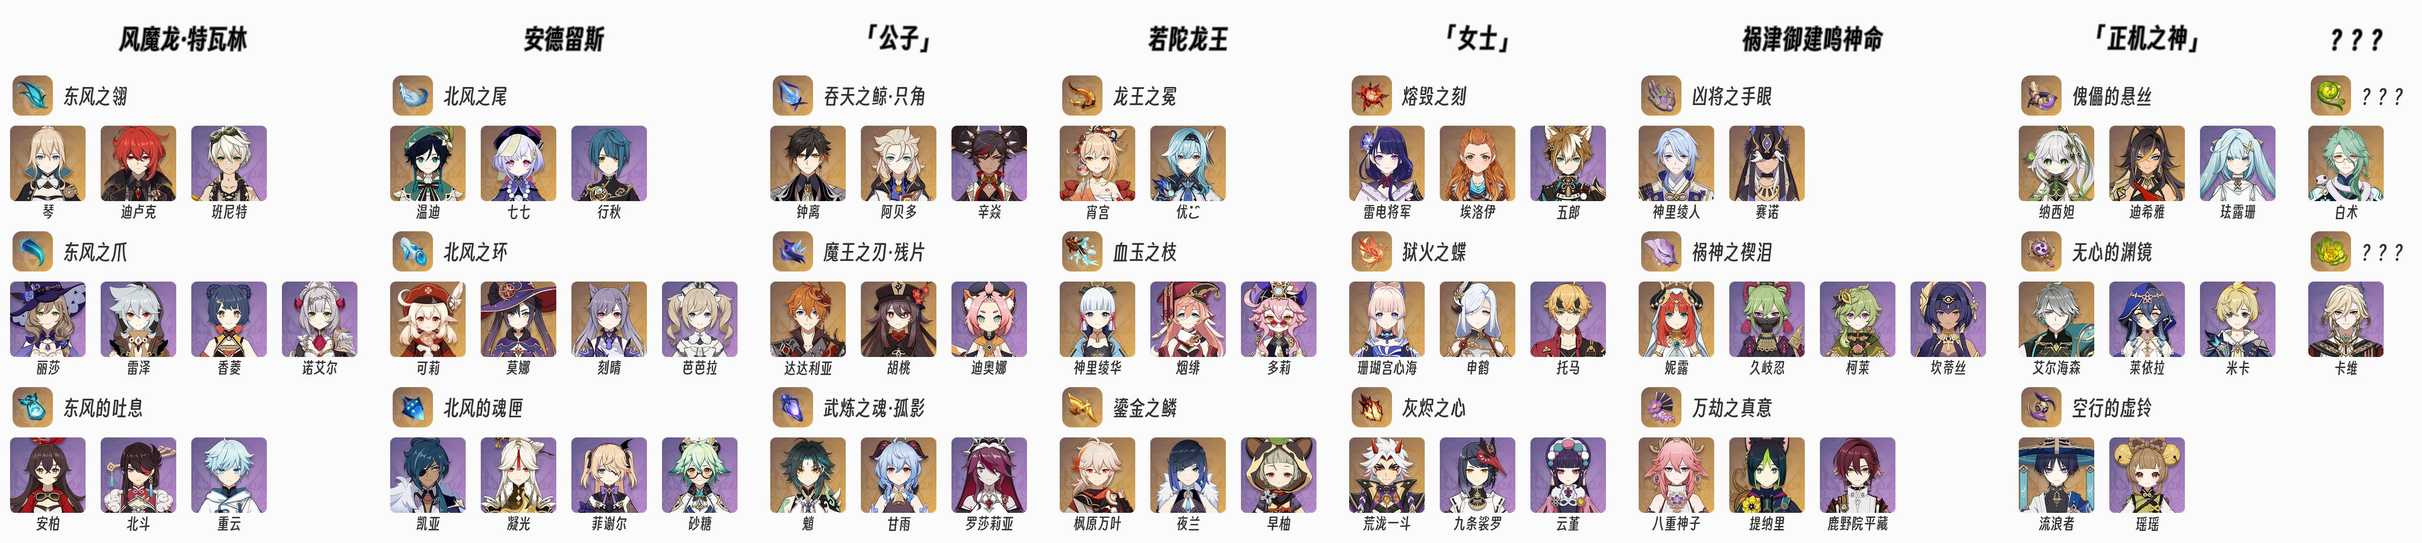
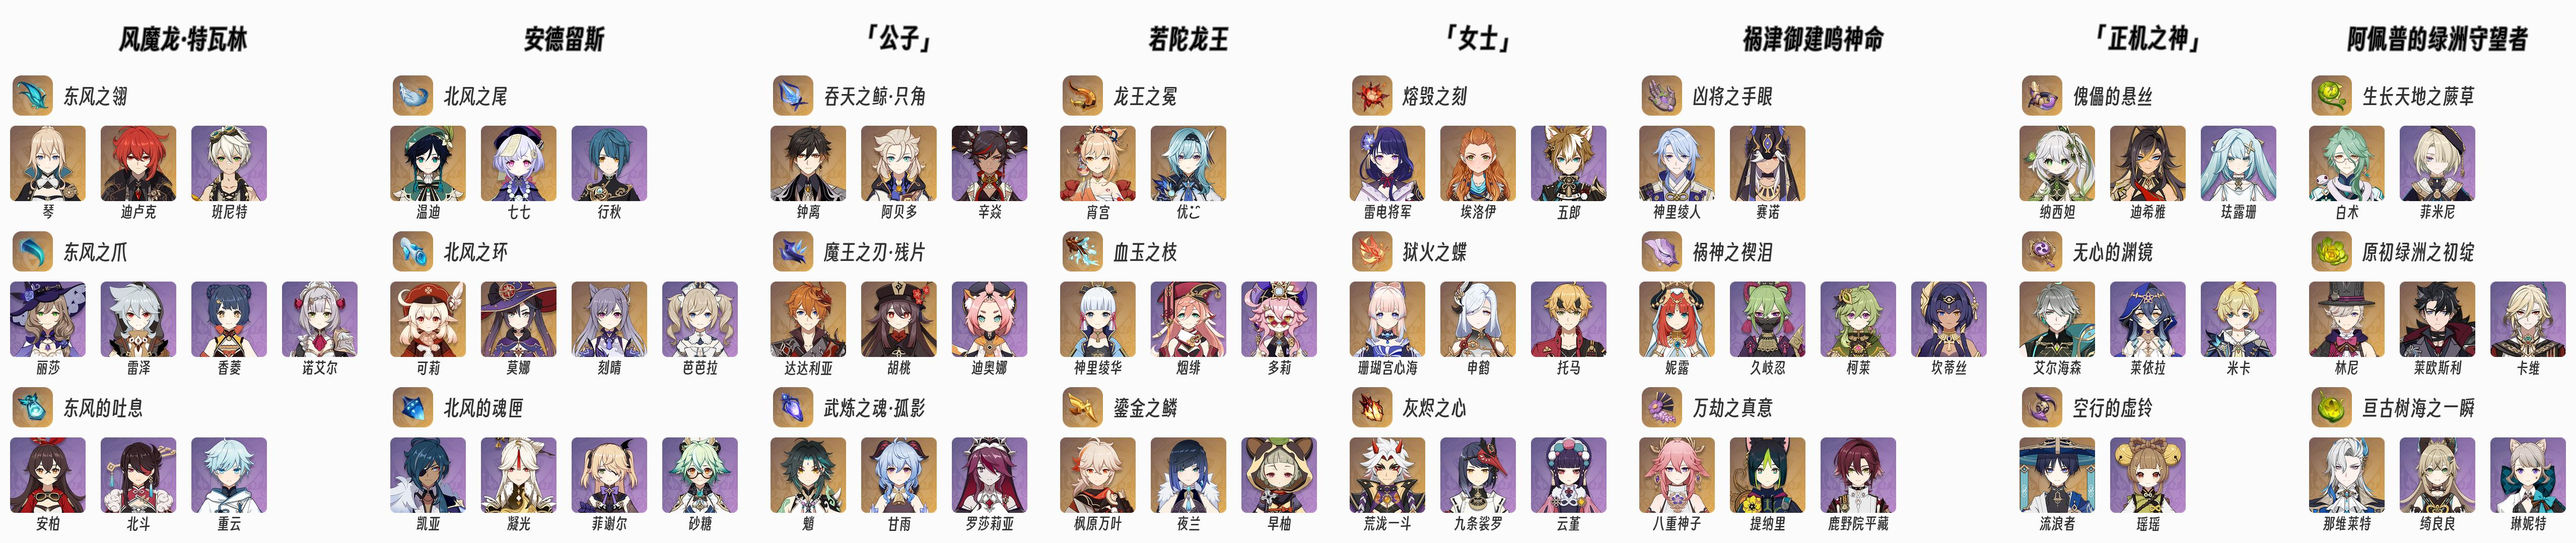
:memo: 更新文档图片

diff --git a/README.md b/README.md
@@ -16,8 +16,8 @@
 </p></br>
 
 
-| ![示例](https://user-images.githubusercontent.com/22407052/222161789-a9b09aaa-0ec3-4b1e-ba2b-3d7107f1f9d4.jpg) |
-|:--:|
+| ![daily 1 avatar](https://github.com/monsterxcn/nonebot-plugin-gsmaterial/assets/22407052/24b343b6-838a-4976-8566-fc14124cc5dd) | ![daily 2 weapon](https://github.com/monsterxcn/nonebot-plugin-gsmaterial/assets/22407052/ef9a9871-1b28-45dc-b52f-02872a319de7) | ![weekly 8](https://github.com/monsterxcn/nonebot-plugin-gsmaterial/assets/22407052/fd90b333-90e6-4d34-9523-1b991eb51945) | ![clac 10000084](https://github.com/monsterxcn/nonebot-plugin-gsmaterial/assets/22407052/2db48921-0dfa-453f-90b3-82d83af1238b) |
+|:--:|:--:|:--:|:--:|
 
 
 ## 安装方法
@@ -164,7 +164,7 @@ login_ticket 获取方式请参考 https://github.com/monsterxcn/nonebot-plugin-
    | `草龙` / `草龙王` / `阿佩普` / `绿洲守望者` | 返回 *阿佩普的绿洲守望者* 掉落材料图片 |
    | `测试` / `未知` / `未实装` / `未上线` | 返回 *尚未实装周本* 掉落材料图片（如果有） |
    
-   ![周本总图](https://user-images.githubusercontent.com/22407052/222161368-ac5b7c34-9583-47ec-82ef-6447273770e6.jpg)
+   ![周本总图](https://github.com/monsterxcn/nonebot-plugin-gsmaterial/assets/22407052/952979c8-7c05-4ee5-b065-4ff43069a716)
 
  - 以 `原神计算` 开头的消息
    
